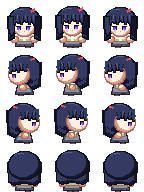
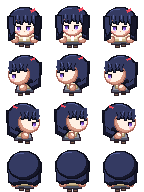
ちびキャラ：脚と靴を2ドットずつにし、左右の足の間に1ドットのすき間をあける
Claude-Session: https://claude.ai/code/session_017gxvkc2TW4xYgG5MuSL3N1

diff --git a/files.js b/files.js
@@ -2,7 +2,7 @@
 // マップなどを足したら scripts に1行足す（順番どおりに読み込む。main.js は最後）。
 // 版の番号 v は tools/stamp.py が書き換える。
 window.FILES = {
-  v: '20261127040303',
+  v: '20261127040619',
   scripts: [
     'engine/core.js',
     'engine/world.js',

diff --git a/tools/sprites/make_chibi.py b/tools/sprites/make_chibi.py
@@ -120,9 +120,9 @@ def body(a, c, side, step, back):
     if side == 'left':
         sw = {0: -1.6, 1: 0, 2: 1.6}[step]
         if girl:
-            a.part([('p', [(-5.8, 37.4), (5.8, 37.4), (7.6, 45), (-7.6, 45)])], c['low1'], c['low2'], shade=c['low2'], line=c['line'], lw=0.7)
+            a.part([('p', [(-5.8, 37.4), (5.8, 37.4), (7.6, 42.6), (-7.6, 42.6)])], c['low1'], c['low2'], shade=c['low2'], line=c['line'], lw=0.7)
         else:
-            a.part([('p', [(-4.2, 38.6), (4.2, 38.6), (4.4, 45), (-4.4, 45)])], c['low1'], c['low2'], shade=c['low2'], line=c['line'], lw=0.7)
+            a.part([('p', [(-4.2, 38.6), (4.2, 38.6), (4.4, 42.6), (-4.4, 42.6)])], c['low1'], c['low2'], shade=c['low2'], line=c['line'], lw=0.7)
         a.part([('p', [(-3.8, 34), (4, 34), (4.4, 39.4), (-4.2, 39.4)]), ('e', -6.4, 31.4, 6.4, 37)], c['top1'], c['top2'], shade=c['top2'], line=c['topLine'], lw=0.7)
         a.part([('p', [(-1.8, 33.2), (2, 33.2), (2 + sw, 38.4), (-1.8 + sw, 38.4)])], c['top1'], c['top2'], line=c['topLine'], lw=0.6)
         a.part([('e', -2.3 + sw, 37.2, 2.3 + sw, 41.4)], c['skin1'], c['skin2'], shade=c['skinS'], line=c['skinLine'], lw=0.5)
@@ -132,10 +132,10 @@ def body(a, c, side, step, back):
         return
     # 脚と靴（靴は甲が見える）
     if girl:
-        a.part([('p', [(-5.6, 37.4), (5.6, 37.4), (7.8, 45), (-7.8, 45)])], c['low1'], c['low2'], shade=c['low2'], line=c['line'], lw=0.7)
+        a.part([('p', [(-5.6, 37.4), (5.6, 37.4), (7.8, 42.6), (-7.8, 42.6)])], c['low1'], c['low2'], shade=c['low2'], line=c['line'], lw=0.7)
     else:
         for x0, x1, l in ((-4.6, -0.4, la), (0.4, 4.6, ra)):
-            a.part([('p', [(x0, 38.6), (x1, 38.6), (x1, 45), (x0, 45)])], c['low1'], c['low2'], shade=c['low2'], line=c['line'], lw=0.7)
+            a.part([('p', [(x0, 38.6), (x1, 38.6), (x1, 42.6), (x0, 42.6)])], c['low1'], c['low2'], shade=c['low2'], line=c['line'], lw=0.7)
     for s in (-1, 1):  # 腕：大きな肩から外へ開く
         a.part([('p', [(s * 7.2, 35.4), (s * 9.8, 35.4), (s * 10.8, 38.4), (s * 8.4, 39.2)])], c['top1'], c['top2'], shade=c['top2'], line=c['topLine'], lw=0.6)
     # 胴は細く、肩は大きく（上から見下ろすので、肩の丸みと上の面が見える）
@@ -157,20 +157,21 @@ def body(a, c, side, step, back):
 
 
 def feet(a, c, side, step):
-    """手本どおり、脚1ドット・靴1ドット（上から見下ろすので足元はごく小さい）。歩くと上げた足が1ドット上がる"""
-    leg = c['leg'] if c['girl'] else c['low2']
+    """手本どおり：左右の足は幅5ドット（輪郭＋中身3）で間に1ドットのすき間。脚2ドット・靴2ドット（上が明るく下が暗い）。
+    歩くと上げた足が1ドット上がる"""
+    leg = c['leg'] if c['girl'] else c['low1']
     pal = {'o': c['line'], 'l': leg, 's': c['shoe1'], 'd': c['shoe2']}
+    foot = ['olllo', 'olllo', 'osssо'.replace('о', 'o'), 'odddo']
     if side == 'front':
         lift = {0: (1, 0), 1: (0, 0), 2: (0, 1)}[step]
         for x0, l in ((-5, lift[0]), (1, lift[1])):
-            rows = ['ollllo', 'osssso'] if not l else ['osssso']
-            a.dots(x0, 46 - l if not l else 45, rows, pal)
+            a.dots(x0, 44 - l, foot, pal)
     else:
         if step == 1:
-            a.dots(-4, 46, ['ollllo', 'osssso'], pal)
+            a.dots(-3, 44, foot, pal)
         else:
-            a.dots(1, 45, ['odddo'], pal)          # 奥の足（上がっている）
-            a.dots(-6, 46, ['ollllo', 'osssso'], pal)
+            a.dots(1, 43, ['olllo', 'olllo', 'odddo', 'odddo'], pal)  # 奥の足（上がっている）
+            a.dots(-6, 44, foot, pal)
 
 
 # ---------------- 頭（大きく、前髪は目のすぐ上まで、目は大きく下寄り） ----------------

diff --git a/CLAUDE.md b/CLAUDE.md
@@ -10,7 +10,7 @@
 - 校舎（廊下8枚と部屋の型）は `tools/gen_school.py` で生成する。生成した `data/maps/school_*.js` は直接直さず、スクリプトを直して作り直す。お話のイベントは `data/story.js` に `G.addEvents` で足す（`at: '扉の名前'` で位置を決められる）。見取り図の施設名のうち学校が特定されそうな名前は一般的な名前に変える
 - 参考にした市販ゲームのファイル（データ・画像・音・シナリオ）はこのリポジトリに入れない
 - タイル素材（ドット絵世界）は二次配布禁止。元のPNGは入れず、`tools/encode_tileset.py` で変換した `data/tilesets/*.js` だけを入れる。タイトル画面の著作権表示（system.js の credits）は消さない
-- キャラの歩行グラフィックは、いまはちびキャラ（手本：RPGツクールMVの標準キャラの比率、約1.5頭身、1コマ48×48px）。`tools/sprites/make_chibi.py` で描き、`img/chars/haru_chibi.png`・`img/chars/yui_chibi.png` に書き出す。塗りは手本と同じくっきりしたドット絵（48×48pxに直接描く。ベタ塗り、段をつけた影と光、部品ごとに1ドットの濃い輪郭、目は1ドットずつ形を決め、白い光はほぼ使わず外側の白目と上が濃い瞳で表す。髪のかたまりは小さめで額は高め、前髪には毛束の明るい筋を1本おきに入れて凹凸を出す。胴は肩が細く裾へ広がる八の字で、腕も外へ開く。前髪は短めで毛先の間から額が見え、目はまるごと見せる。やや上から見下ろしつつ足先まで全身を見せる（胴→裾まで伸びたスカート／ズボン→脚1ドット→靴1ドット。歩くと上げた足が1ドット上がる）。目は顔の大きさを変えずに大きく（横5ドット、黒目が3ドット幅）。見下ろす角度なので、肩の丸みと上の面があごのすぐ下に見え、口は省いて鼻を1ドットの点で表す。幅の割合は、手を含めた体が頭の約8割。その中で胴は細く、肩と手を大きめにする）。手本を使うときは、数字で測るだけでなく必ず拡大して絵そのものを見比べる。「イラストを縮めた柔らかい塗り」は4頭身のための試しで、ちびキャラには使わない。3頭身・4頭身は見送り。約4頭身の版（`make_trial.py`→`trial.png`、`make_haru.py`→`haru.png`）も残してある。手本の絵は写さない（比率と描き方だけ合わせる）。直したらスクリプトを動かして画像を作り直す
+- キャラの歩行グラフィックは、いまはちびキャラ（手本：RPGツクールMVの標準キャラの比率、約1.5頭身、1コマ48×48px）。`tools/sprites/make_chibi.py` で描き、`img/chars/haru_chibi.png`・`img/chars/yui_chibi.png` に書き出す。塗りは手本と同じくっきりしたドット絵（48×48pxに直接描く。ベタ塗り、段をつけた影と光、部品ごとに1ドットの濃い輪郭、目は1ドットずつ形を決め、白い光はほぼ使わず外側の白目と上が濃い瞳で表す。髪のかたまりは小さめで額は高め、前髪には毛束の明るい筋を1本おきに入れて凹凸を出す。胴は肩が細く裾へ広がる八の字で、腕も外へ開く。前髪は短めで毛先の間から額が見え、目はまるごと見せる。やや上から見下ろしつつ足先まで全身を見せる（胴→スカート／ズボン→脚2ドット→靴2ドット（上が明るく下が暗い）。左右の足は幅5ドット（輪郭＋中身3）で間に1ドットのすき間。歩くと上げた足が1ドット上がる）。目は顔の大きさを変えずに大きく（横5ドット、黒目が3ドット幅）。見下ろす角度なので、肩の丸みと上の面があごのすぐ下に見え、口は省いて鼻を1ドットの点で表す。幅の割合は、手を含めた体が頭の約8割。その中で胴は細く、肩と手を大きめにする）。手本を使うときは、数字で測るだけでなく必ず拡大して絵そのものを見比べる。「イラストを縮めた柔らかい塗り」は4頭身のための試しで、ちびキャラには使わない。3頭身・4頭身は見送り。約4頭身の版（`make_trial.py`→`trial.png`、`make_haru.py`→`haru.png`）も残してある。手本の絵は写さない（比率と描き方だけ合わせる）。直したらスクリプトを動かして画像を作り直す
 - 字体：ゲームの文字は M+ 1m（`fonts/mplus-1m-regular.ttf`、M+ FONTS は自由に使用・配布できる）。`G.font()` と css/style.css で指定している。収録外の文字（♪など）は端末のフォントになる
 - 公開は gh-pages ブランチから。更新したら、まず `python3 tools/stamp.py`（files.js の版の番号を新しくする。ブラウザが古いファイルを使い回して新旧が混ざるのを防ぐ）、コミットして `git push origin main main:gh-pages` で両方に送る。そのあと `gh api repos/nzanke/game-test/actions/runs` で「pages build and deployment」が新しいコミットで completed success になったのを確かめてから報告する。ビルドが走らないときは空のコミットを送り直す（Pages 設定のAPIは作業環境から使えない）
 - やりとりと説明は日本語で
